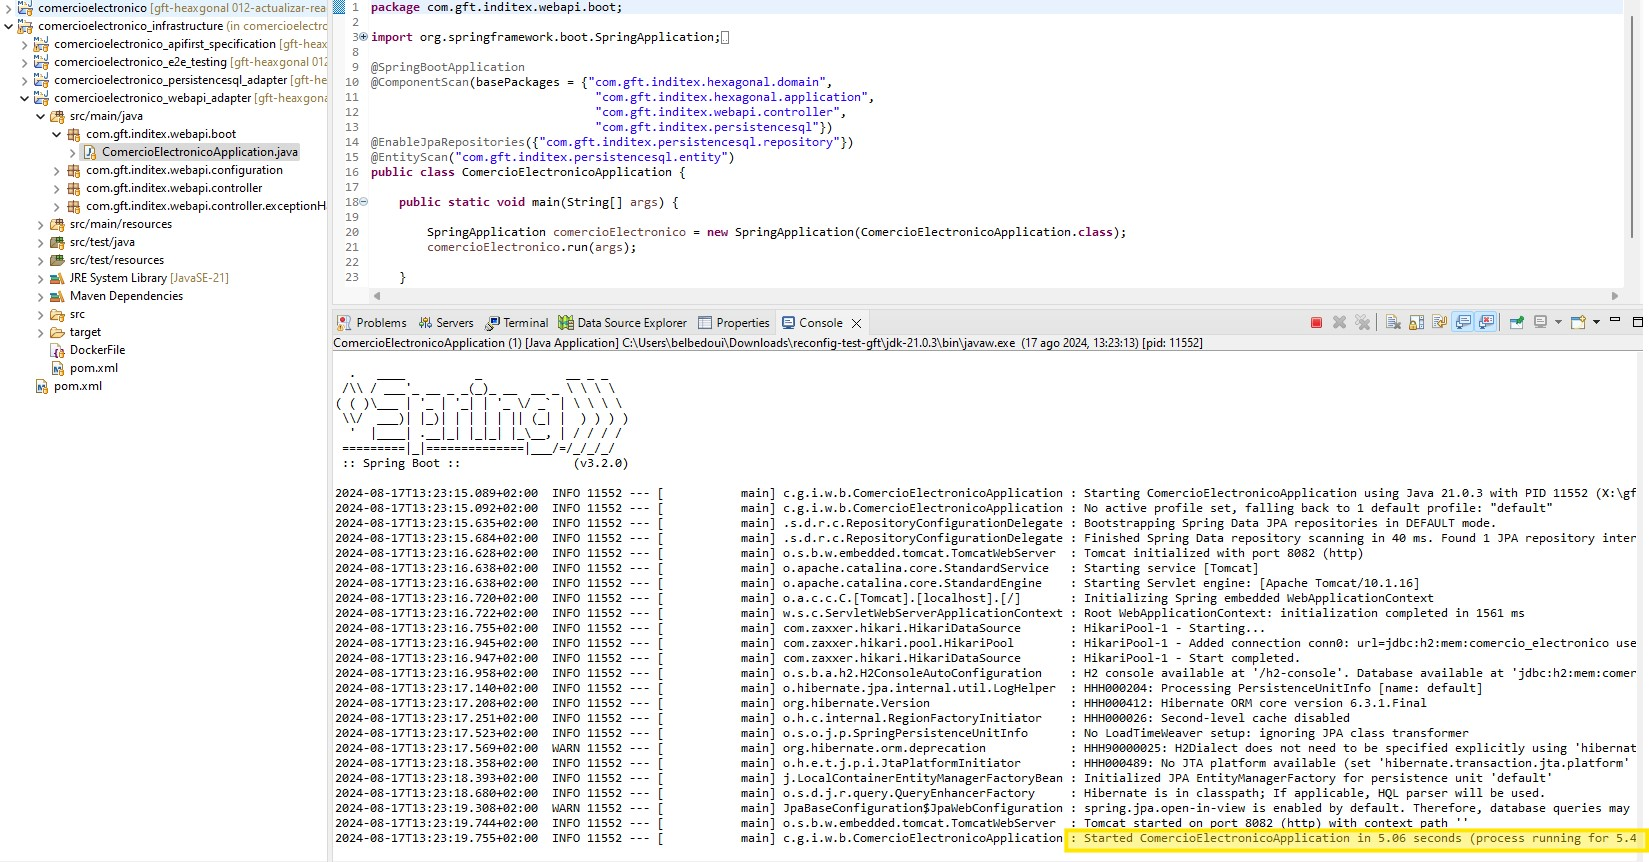
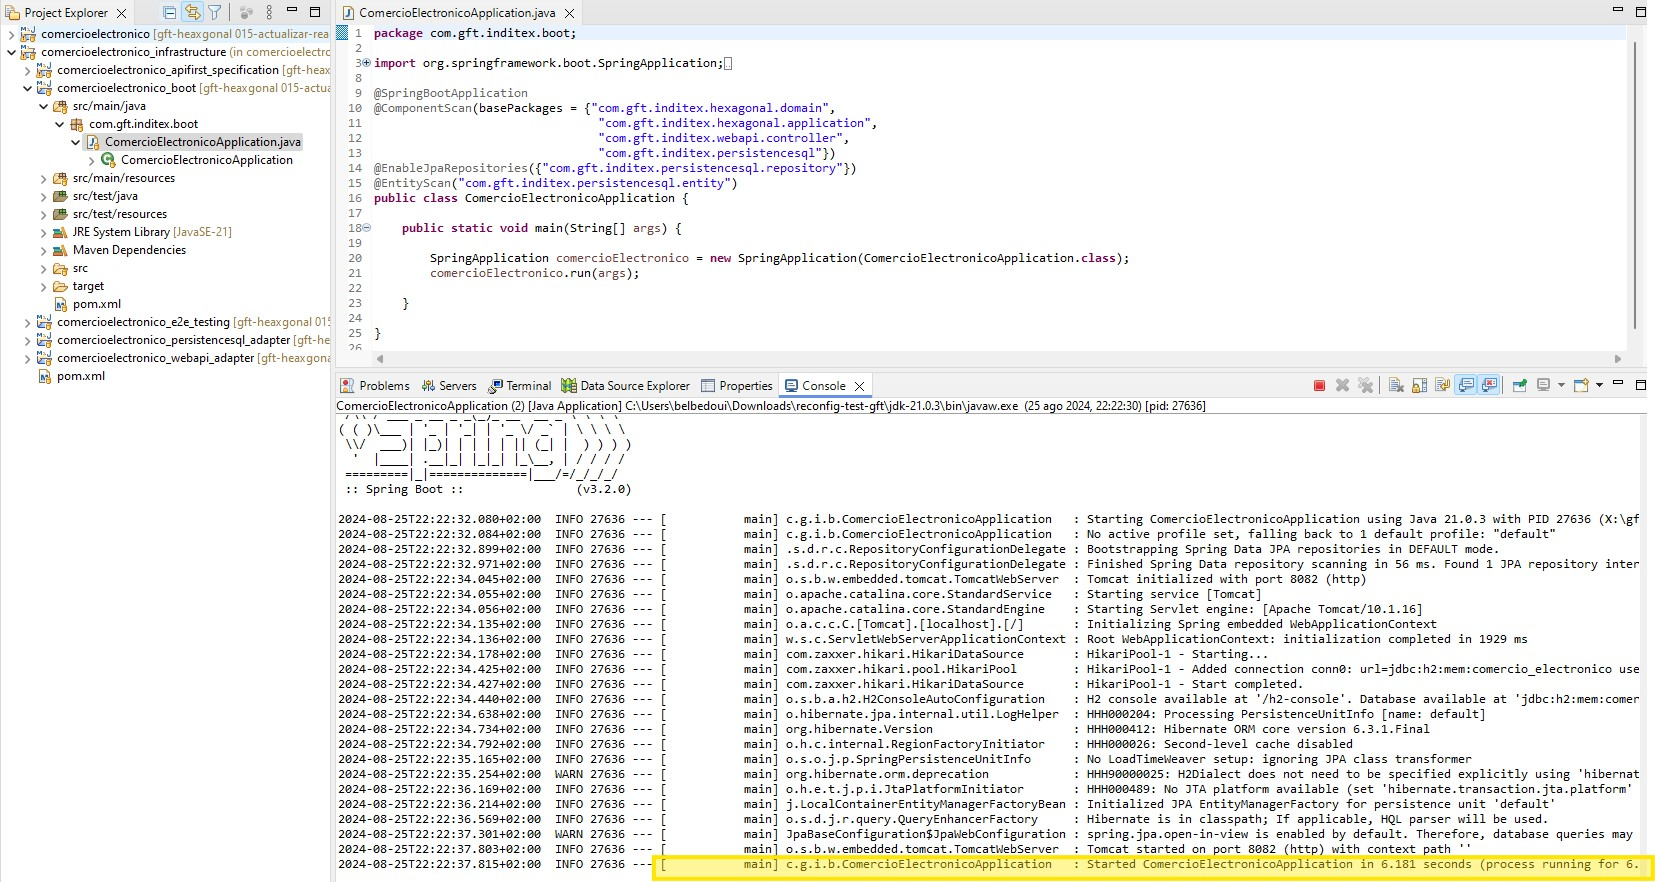
update readme

Changed region(s): [[0.0, 0.0, 1.0, 1.0]]

diff --git a/comercioelectronico_insfrastructure/comercioelectronico_e2e_testing/src/test/java/com/gft/inditex/e2etesting/KarateUnitTest.java b/comercioelectronico_insfrastructure/comercioelectronico_e2e_testing/src/test/java/com/gft/inditex/e2etesting/KarateUnitTest.java
@@ -9,7 +9,7 @@ public class KarateUnitTest {
 
 	private static final String PATH_FEATURES="classpath:com/gft/inditex/e2etesting/feature/";
 	
-	@Disabled
+	//@Disabled
 	@Test
 	Karate executeEnd2EndTests_forComercioElectronicoAPI() {
 		return Karate.run(PATH_FEATURES).relativeTo(getClass());

diff --git a/README.md b/README.md
@@ -53,9 +53,9 @@
 
   ![Project Logo](static/009_resultado_Build_infra.JPG)
 
-- Ejecutar el proyecto!! Siendo una api springboot, ya lleva incorporado las libreria de tomcat. Simplemente ejecutamos el MAIN como cualquier proyecto java.
+- Ejecutar el proyecto!! La clase starter para lanzar la applicación, la tenemos aislada en un módulo aparte "comercioelectronico_boot".
 
-Se ejecutará sobre el puerto 8082.
+  Simplemente ejecutamos el main al igual que cualquier applicación java, y lanzará sobre el puerto 8082.
 
   ![Project Logo](static/010-ejecutar_api.JPG)
 
